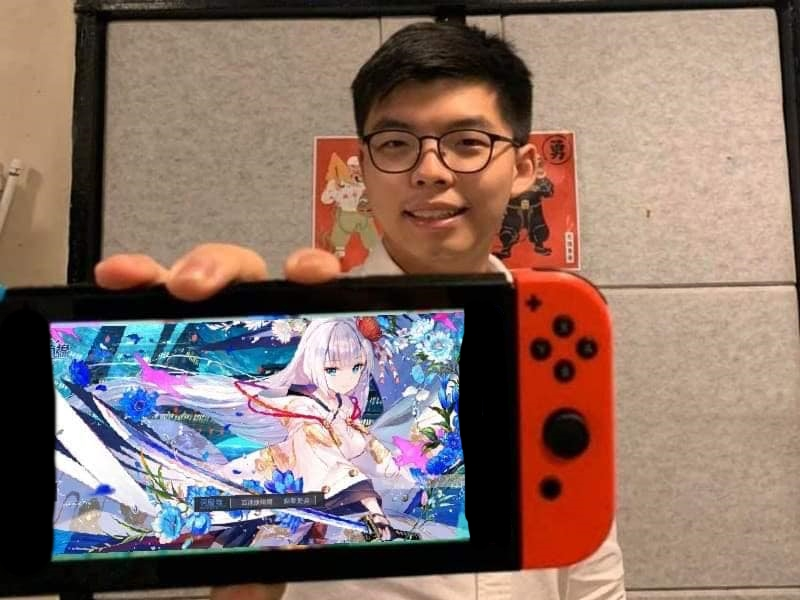
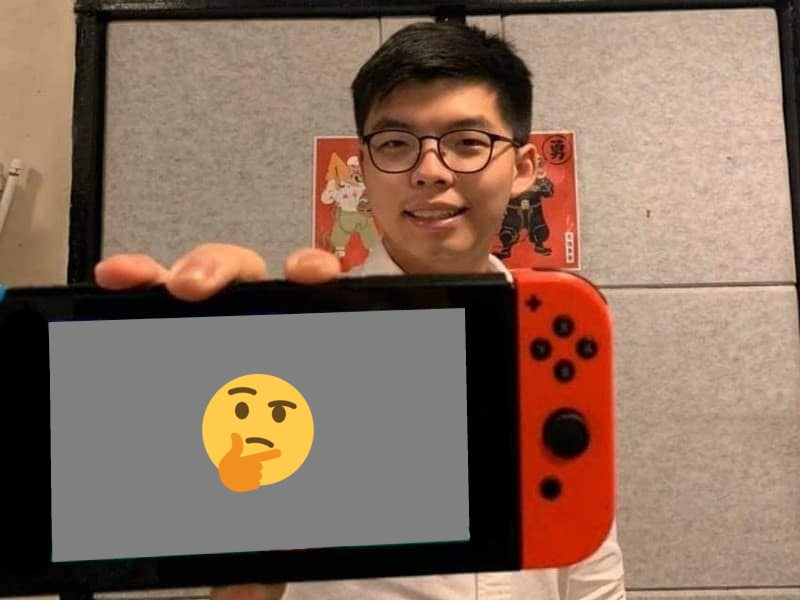
是但啦

Changed region(s): [[0.0625, 0.51, 0.5938, 0.96]]

diff --git a/index.html b/index.html
@@ -79,35 +79,23 @@
 	<script src="./html2canvas.min.js"></script>
 	<script src="./FileSaver.min.js"></script>
 	<script>
-		const sauce = document.querySelector("img#sauce");
 		const canvas = document.querySelector("canvas#testCanvas");
 		const ctx = canvas.getContext("2d");
-
-		sauce.addEventListener("load", () => {
-			ctx.fillStyle = "#ccc";
-			ctx.fillRect(0, 0, 1280, 720);
-			ctx.fillStyle = "#fff";
-			ctx.font = "72px Arial";
-			ctx.textAlign = "center";
-			ctx.fillText("🤔", canvas.width / 2, canvas.height / 2 + 30);
-		});
-
-		// ===
-
+		
 		const input = document.querySelector("input#file-in");
 		input.value = "";
 
 		input.addEventListener("change", () => {
 			const file = input.files[0];
-		const fr = new FileReader();
-		fr.addEventListener("load", () => {
-			const img = new Image();
-			img.addEventListener("load", () => {
-				ctx.drawImage(img, 0, 0, canvas.width, canvas.height);
+			const fr = new FileReader();
+			fr.addEventListener("load", () => {
+				const img = new Image();
+				img.addEventListener("load", () => {
+					ctx.drawImage(img, 0, 0, canvas.width, canvas.height);
+				});
+				img.src = fr.result;
 			});
-			img.src = fr.result;
-		});
-		fr.readAsDataURL(file);
+			fr.readAsDataURL(file);
 		});
 
 		// ===
